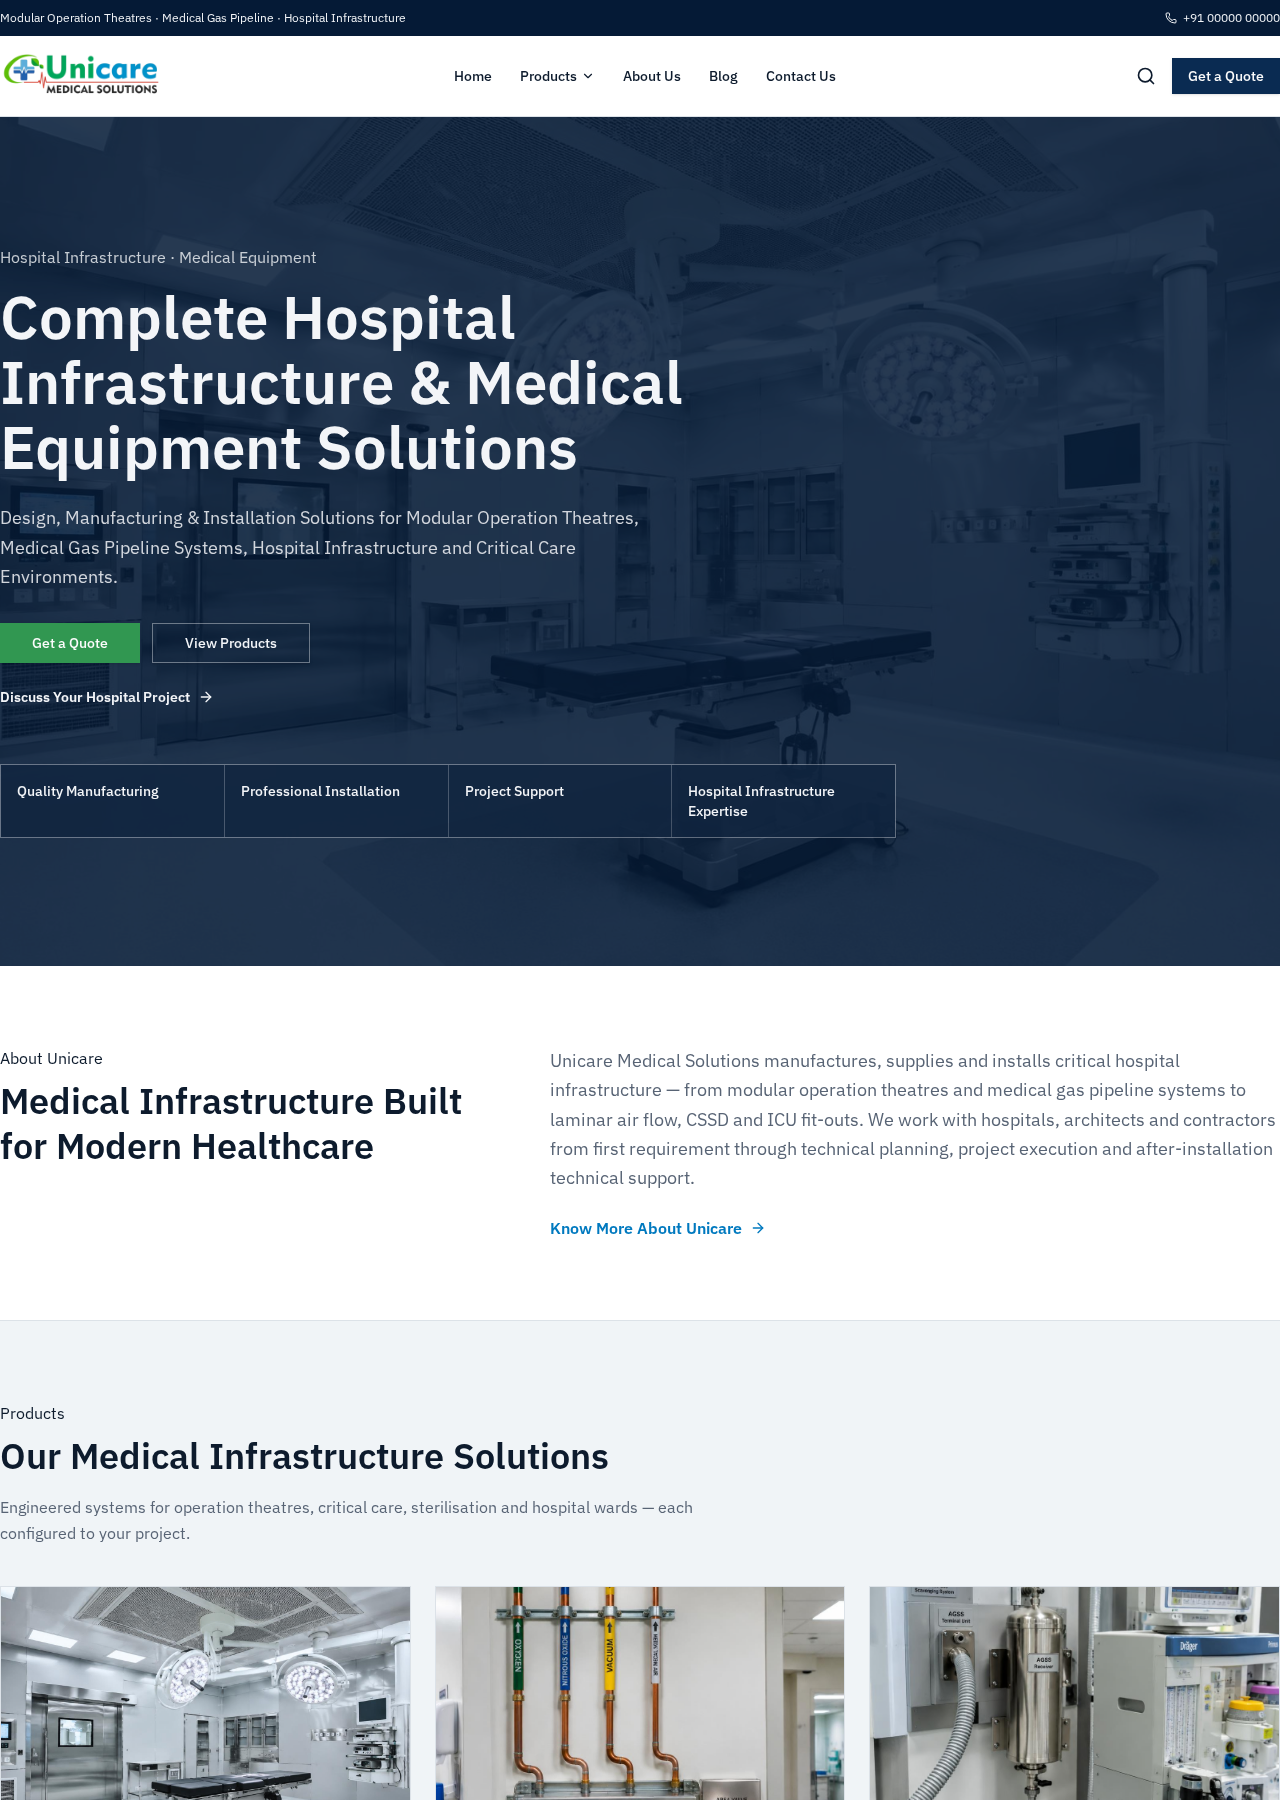
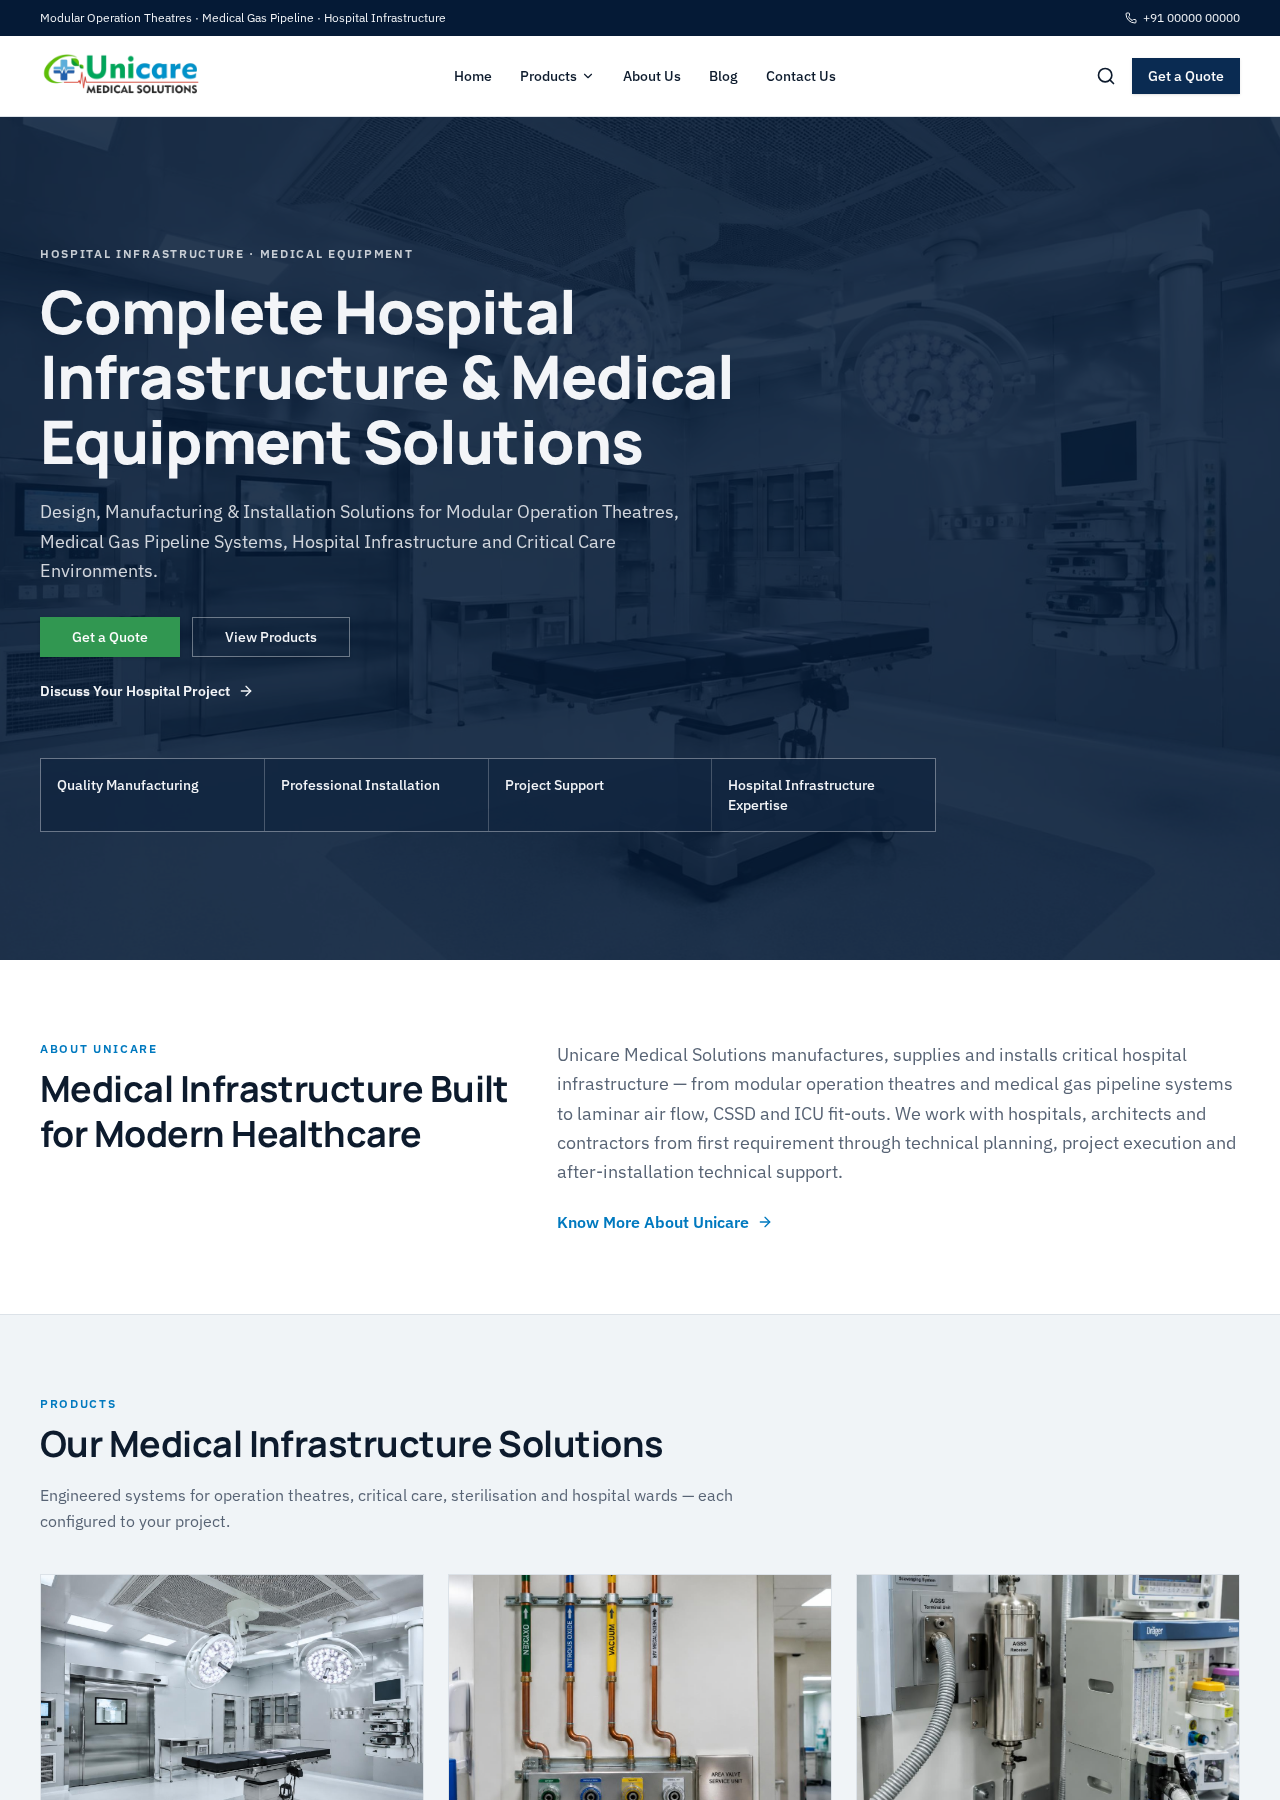
Changes

diff --git a/src/styles.css b/src/styles.css
@@ -150,3 +150,16 @@
     color: var(--color-foreground);
   }
 }
+
+@layer base {
+  h1, h2, h3, h4 { font-family: var(--font-display); letter-spacing: -0.015em; }
+  body { font-family: var(--font-sans); -webkit-font-smoothing: antialiased; }
+}
+@utility container-x { width: 100%; max-width: 1240px; margin-inline: auto; padding-inline: 1.25rem; }
+@utility eyebrow { font-size: 0.75rem; font-weight: 600; letter-spacing: 0.14em; text-transform: uppercase; color: var(--brand-blue); }
+.prose-unicare h2 { font-size: 1.5rem; font-weight: 700; margin: 2rem 0 0.75rem; color: var(--foreground); }
+.prose-unicare h3 { font-size: 1.15rem; font-weight: 700; margin: 1.5rem 0 0.5rem; }
+.prose-unicare p { margin: 0 0 1rem; line-height: 1.75; color: var(--muted-foreground); }
+.prose-unicare ul { list-style: disc; padding-left: 1.25rem; margin-bottom: 1rem; color: var(--muted-foreground); }
+.prose-unicare li { margin-bottom: 0.35rem; line-height: 1.6; }
+.prose-unicare a { color: var(--brand-blue); text-decoration: underline; }
